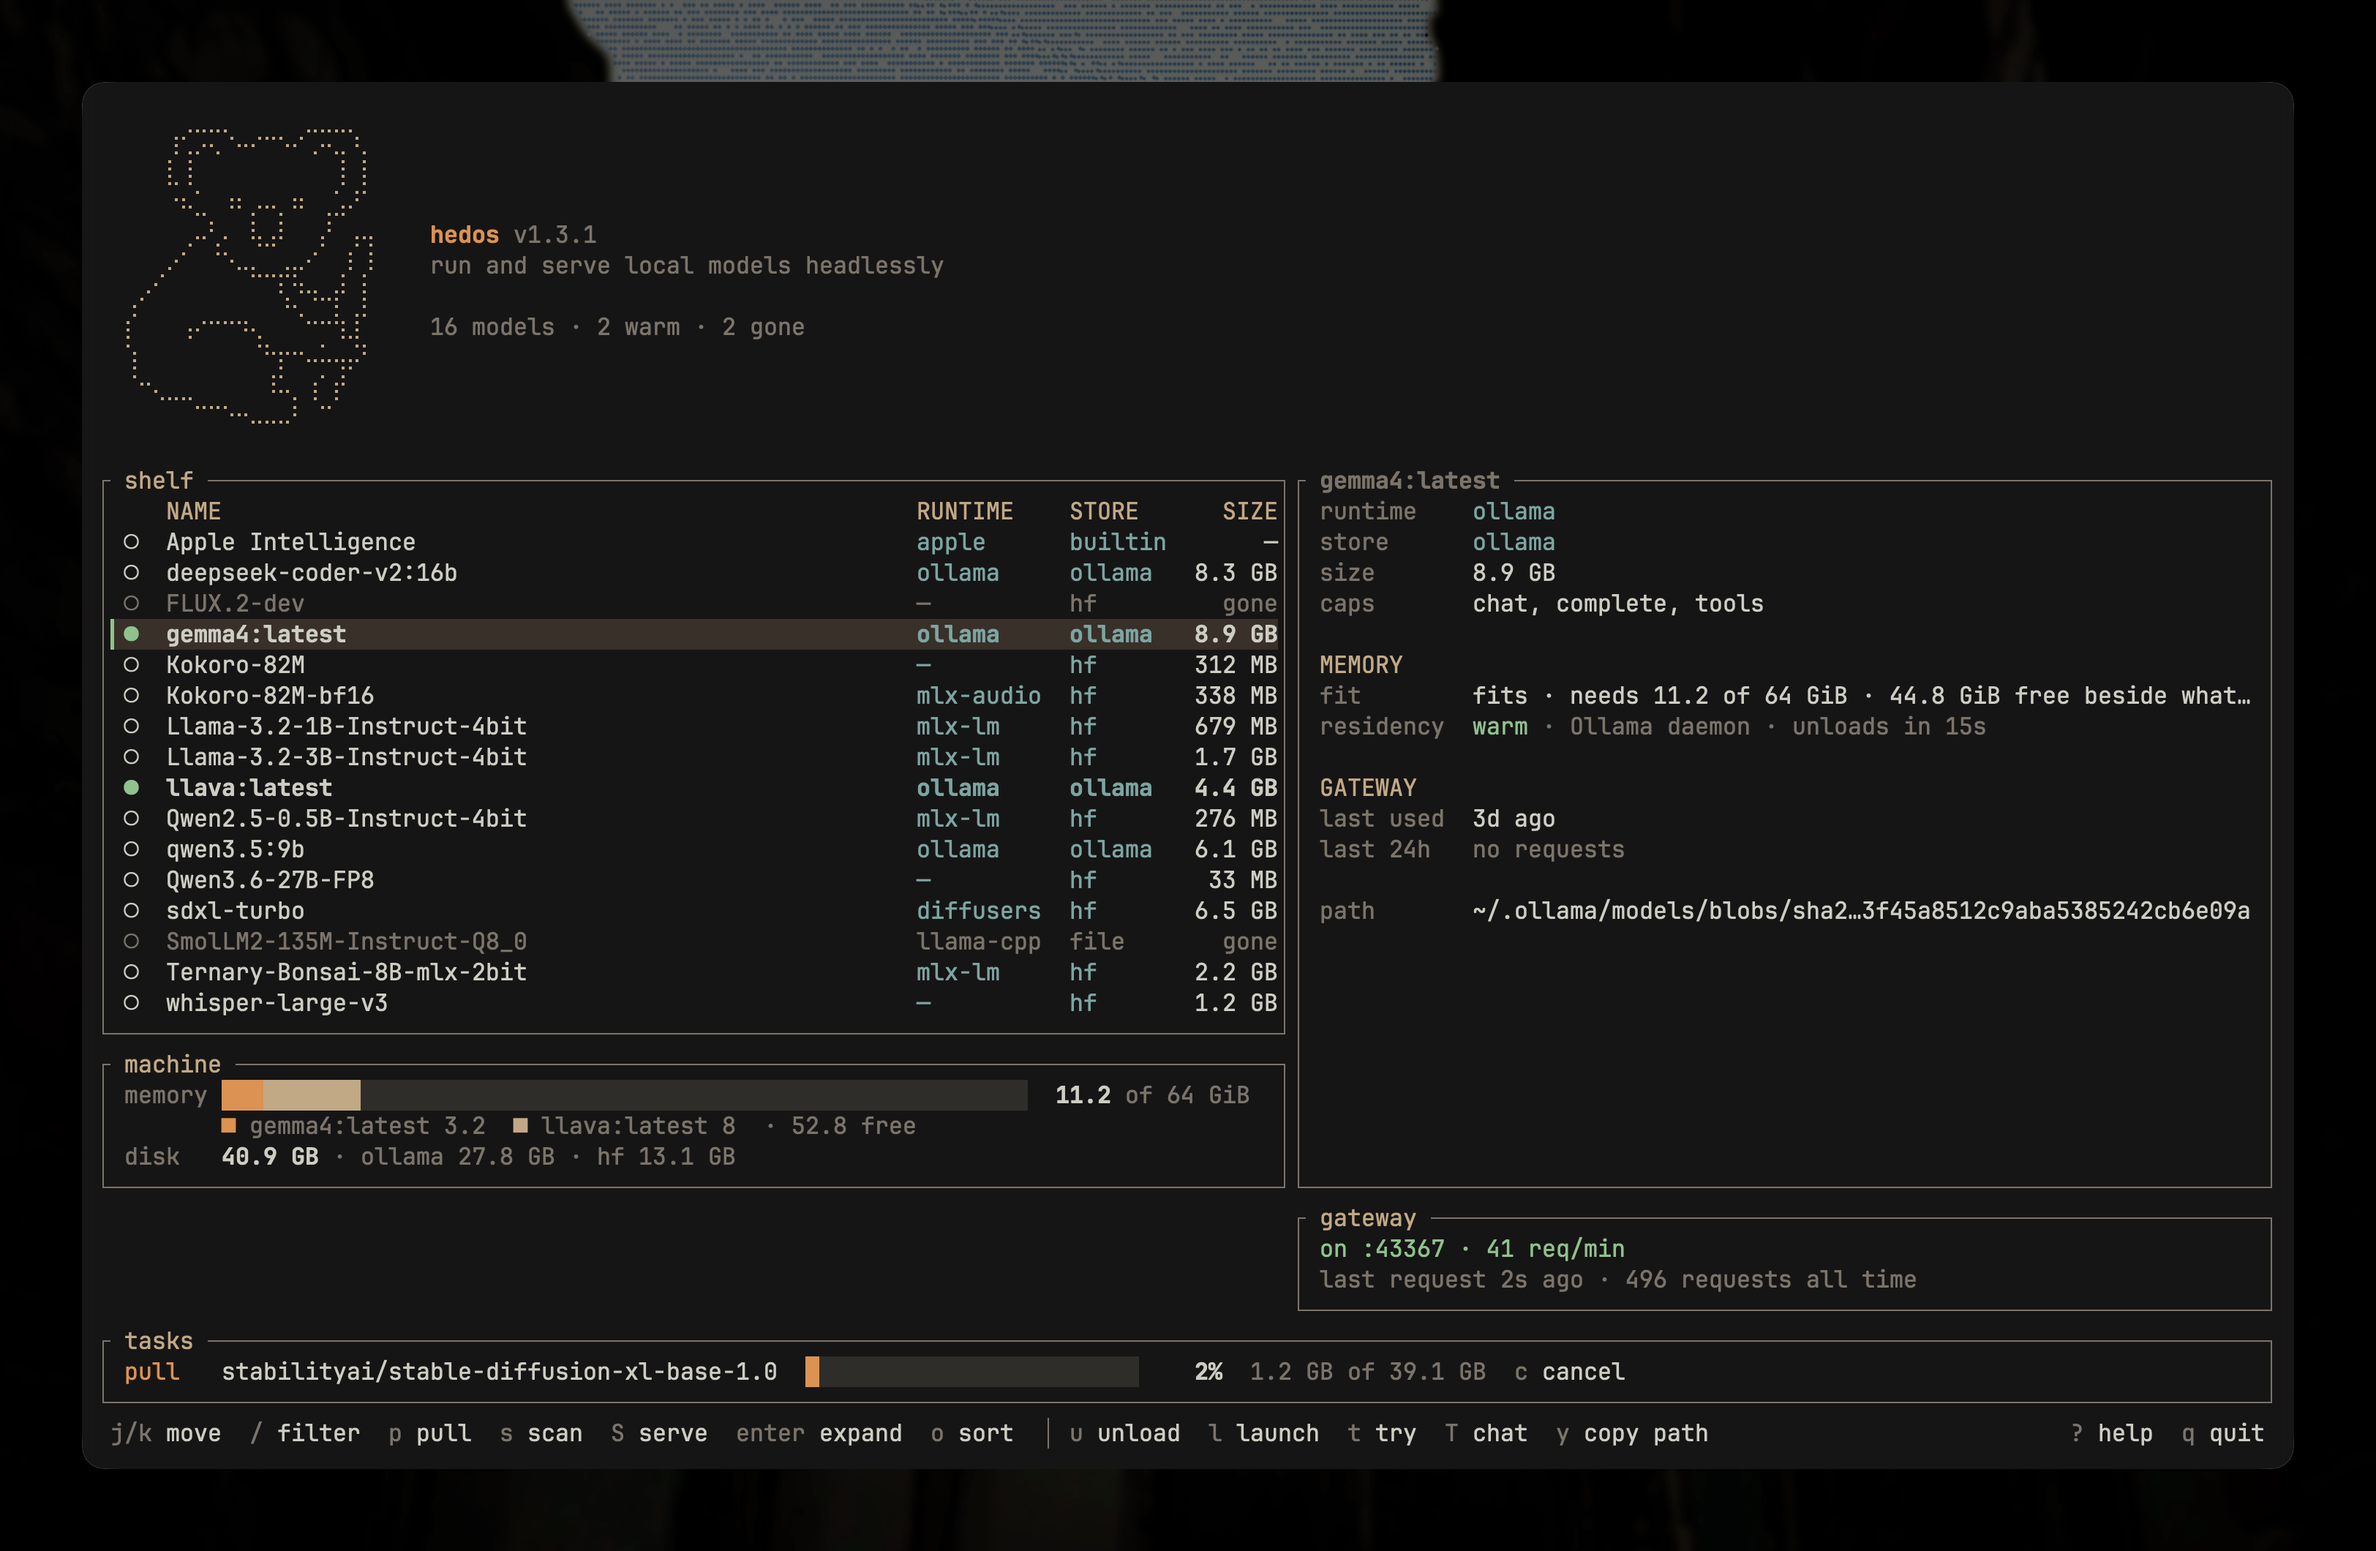
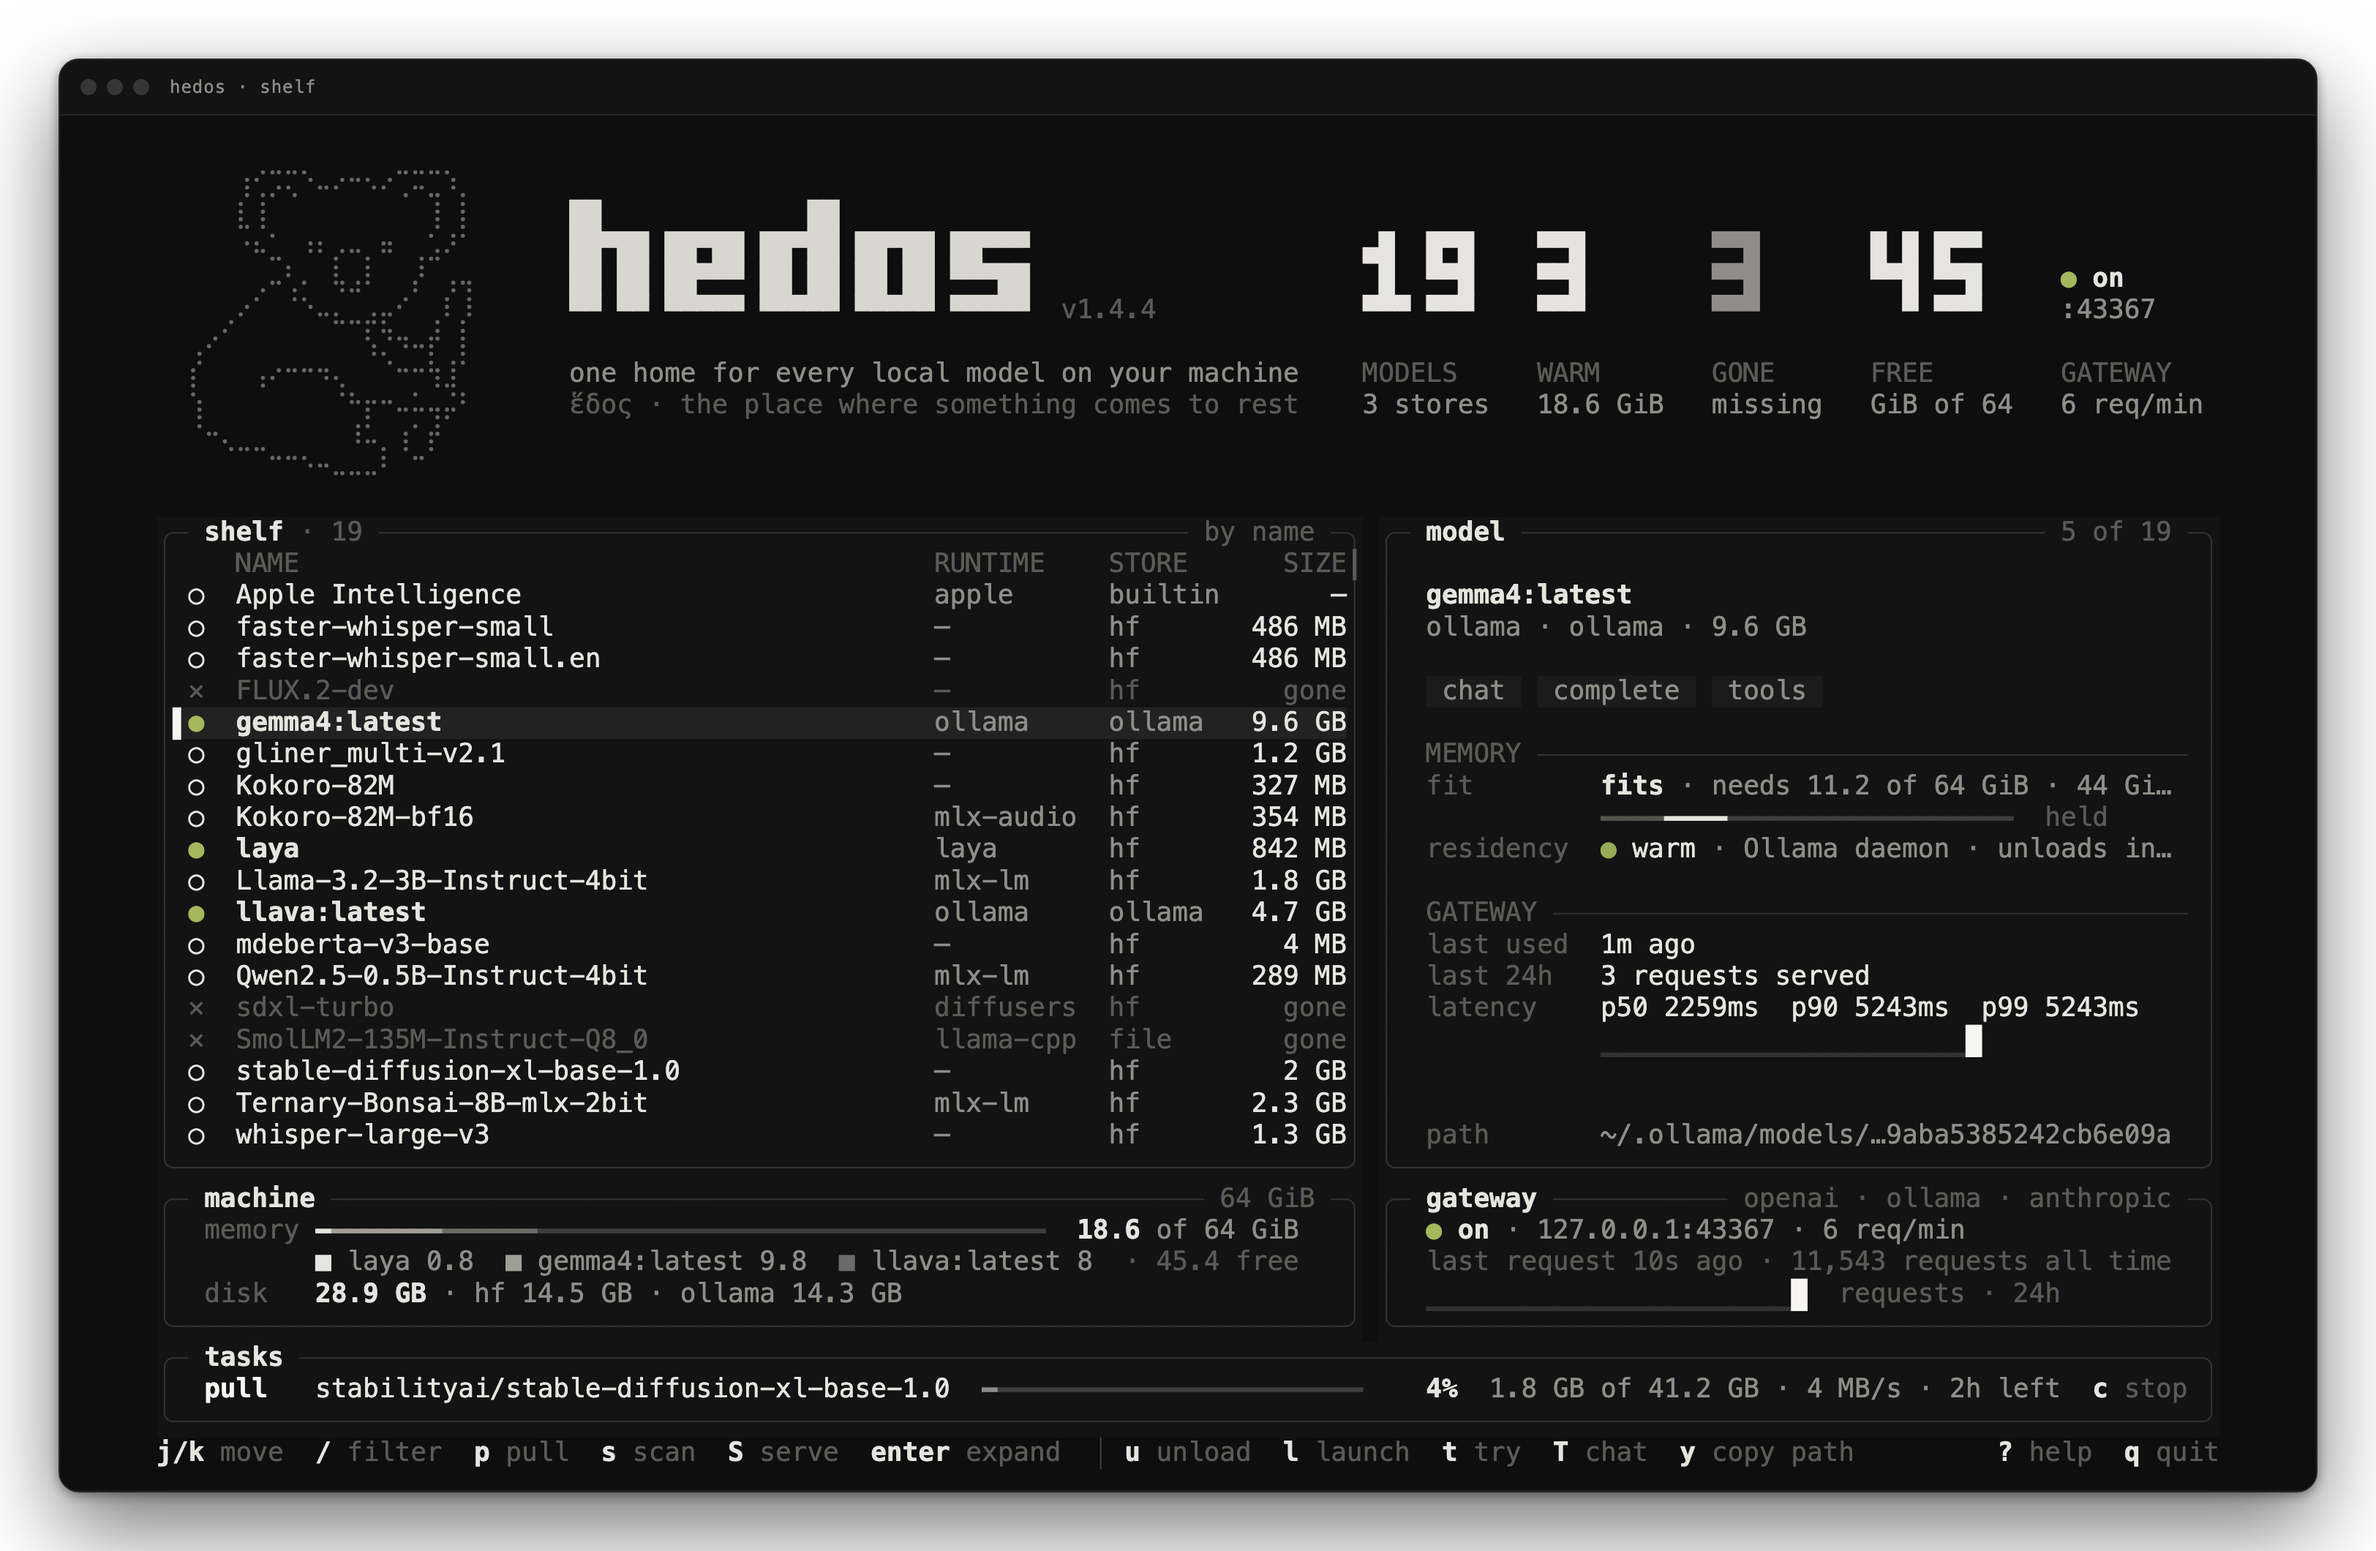
docs(repo): show the redesigned shelf, try and judge screens in the README

diff --git a/README.md b/README.md
@@ -70,13 +70,17 @@ hedos bench                         # what every model does on this machine
 Every command takes `--json` when you want machine-readable output instead of formatted text. `hedos ls` shows a fit verdict — whether each model will actually run in this machine's memory — next to its capabilities.
 
 ## The shelf in the terminal
-![hedos shelf: the shelf of models, the selected model's detail, the machine's memory, the gateway, and the running tasks, in one terminal screen](assets/ui-shelf.png)
+![hedos shelf: the koala and wordmark over the figures (models, warm memory, gone, free memory, the gateway), the shelf of models with warm dots, the selected model's card with its fit gauge and gateway latency, the machine's memory split per loaded model, the gateway's requests over the day, and a download in the task strip](assets/ui-shelf.png)
 
 `hedos shelf` is the same shelf as a screen you keep open: every model with its runtime, store, and size; the selected one's fit, residency, and capabilities; what is loaded and by whom, with a memory bar per model; disk per store; and what the gateway served in the last day. The footer shows only the keys that apply to the model under the cursor, and every key is a subcommand: `p` pulls, `w` and `u` warm and unload, `x` removes with a preview, `S` serves.
 
 Press `t` and the shelf gives way to a conversation with the selected model. The reply streams in, keeps its markdown, scrolls with the wheel or the arrows and holds still while more text arrives, and the model stays warm for whatever comes next. `T` opens `hedos chat` in the plain terminal instead, `l` launches a coding harness on the model: the UI steps aside for anything that needs the terminal and is back the moment it ends, with a row in the task strip saying how it went.
 
-![The chat pane inside hedos shelf: the prompt in bold, the reply streaming in with its markdown, a download running in the task strip underneath](assets/ui-chat.png)
+![The try screen inside hedos shelf: your prompt in a bubble on the right, the reply with its code in a panel, and the session card with the model's residency, context used, and the reply's speed in big figures](assets/ui-chat.png)
+
+On a decision model (a judge such as laya) `t` opens a composer for typed questions instead: a situation, a question, and the options or levels it may answer with. The answer comes back as a distribution, a bar and a share for each outcome with the model's pick marked.
+
+![The judge screen inside hedos shelf: a choice between refund, replace, and apologize answered with replace at 77%, a yes-or-no statement answered yes at 69%, and the composer with its kind, situation, and statement fields](assets/ui-judge.png)
 
 Pulls download in the task strip while you keep working; `c` asks whether to pause or cancel one, and `P` opens a screen of every pull with the selected one's rate, estimate, and history. Every text field edits like a shell line (Ctrl-A/E, Ctrl-U, Ctrl-W, the arrows). It works over ssh and inside tmux. See the [`hedos shelf` reference](docs/cli.md#hedos-shelf).
 
